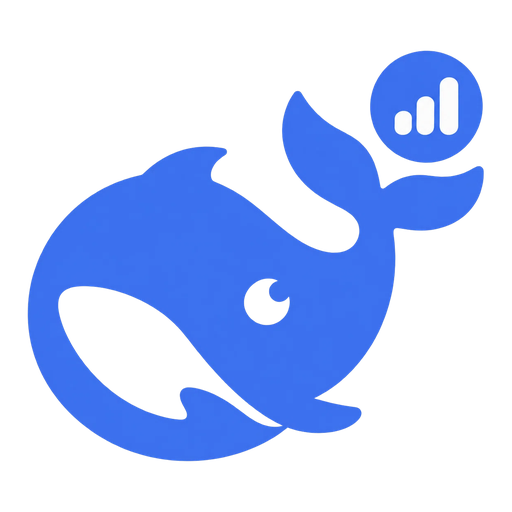
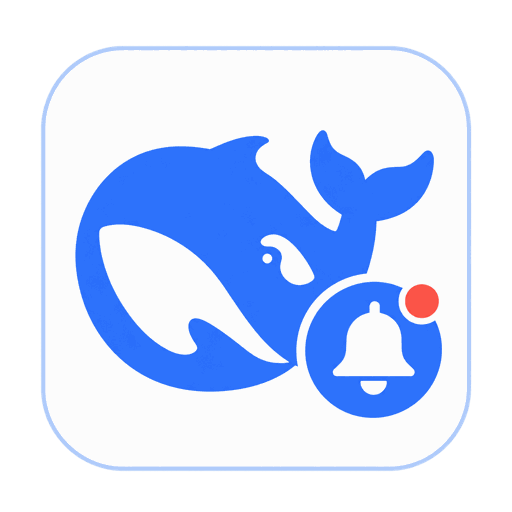
chore(release): 0.6.1
Adopt the whale + bell notification icon, remove the obsolete icon candidates, and add menu bar, settings, and plugin-inventory screenshots to both READMEs.

diff --git a/README.en.md b/README.en.md
@@ -8,7 +8,26 @@ English | [简体中文](https://github.com/linbin-mk/dsh-notify/blob/main/READM
 [![node](https://img.shields.io/node/v/@linbin-mk/dsh-notify)](package.json)
 [![platform](https://img.shields.io/badge/platform-macOS%2013%2B-lightgrey)](#requirements)
 
-`dsh-notify` is a pure third-party DeepSeek Harness bundle for macOS. It adds one status item to the system menu bar: the Harness whale mark followed by the number of live Agents whose authoritative status is `running`. When the count is zero, only the whale remains visible. While subscribed events await user action, the number becomes their total and the letters identify the event types: `Q` means a question and `S` means an approval, so `2-QS` means one of each. Both subscriptions and their sweeping attention effect default to on. Click the item to focus the open Google Chrome tab for this Harness process; it never opens a new tab. Its Web Client half contributes a Notifications page to the built-in Settings panel, where the indicator and event subscriptions can be managed without restarting Harness.
+`dsh-notify` is a pure third-party DeepSeek Harness plugin for macOS. It keeps one whale status item in the system menu bar: the mark is followed by the number of live Agents whose authoritative status is `running`, and when that number is zero only the whale remains. While subscribed events await user action, the number becomes their total and the letters identify the event types: `Q` means a question and `S` means an approval, so `2-QS` means one of each. Click the item to focus the open Google Chrome tab for this Harness process; it never opens a new tab. Its Web Client half contributes a Notifications page to the built-in Settings panel, where the indicator, both event subscriptions, and the sweeping attention effect can be managed without restarting Harness.
+
+## Screenshots
+
+**Menu bar status item** (drawn with the same AppKit logic the packaged helper uses):
+
+| State | Menu bar |
+| --- | --- |
+| Idle: no Agent running | <img src="https://raw.githubusercontent.com/linbin-mk/dsh-notify/main/docs/screenshots/menubar-idle.png" width="360" alt="Only the whale is visible when idle"> |
+| Running: 3 Agents | <img src="https://raw.githubusercontent.com/linbin-mk/dsh-notify/main/docs/screenshots/menubar-running.png" width="360" alt="The menu bar shows the whale and the number 3"> |
+| Pending: 1 question + 1 approval | <img src="https://raw.githubusercontent.com/linbin-mk/dsh-notify/main/docs/screenshots/menubar-pending.png" width="360" alt="The menu bar shows the whale and 2-QS"> |
+| Sweep: an event awaits action | <img src="https://raw.githubusercontent.com/linbin-mk/dsh-notify/main/docs/screenshots/menubar-sweep.gif" width="360" alt="A highlight sweeps over the whale and the numbers"> |
+
+**Settings → Notifications**: toggle the indicator, event subscriptions, and sweep live without restarting Harness.
+
+![The Notifications page in the Settings panel](https://raw.githubusercontent.com/linbin-mk/dsh-notify/main/docs/screenshots/settings-notify-en.png)
+
+**Settings → Plugins**: the inventory shows the icon, localized name, and capability description.
+
+![The menu bar activity indicator in the plugin inventory](https://raw.githubusercontent.com/linbin-mk/dsh-notify/main/docs/screenshots/plugin-row-en.png)
 
 ## Features
 
@@ -17,7 +36,7 @@ English | [简体中文](https://github.com/linbin-mk/dsh-notify/blob/main/READM
 - **Sweeping attention effect** — a highlight sweeps over the whale mark and the numbers while a subscribed event is pending. It is clipped to the icon and the glyphs instead of covering the whole status item.
 - **Click to focus** — clicking the item brings the Google Chrome tab already showing this Harness process to the front. It never opens a new tab.
 - **Settings without a restart** — the indicator, both subscriptions, and the sweep can be toggled live from the built-in Settings panel.
-- **Display metadata in the plugin lists** — the package ships `icon.png` (a whale with an activity-signal badge on a transparent background) plus `locale/en.json` and `locale/zh.json` with `meta.title`/`meta.description`. The Harness Plugin Manager, bundle details and the **Settings → Plugins** inventory read them **without activating the plugin**, so the row shows a localized name and capability description with its own icon instead of package-name fallback text and generic artwork.
+- **Display metadata in the plugin lists** — the package ships `icon.png` (a whale with a bell notification badge on a white rounded-square tile) plus `locale/en.json` and `locale/zh.json` with `meta.title`/`meta.description`. The Harness Plugin Manager, bundle details and the **Settings → Plugins** inventory read them **without activating the plugin**, so the row shows a localized name and capability description with its own icon instead of package-name fallback text and generic artwork.
 
 ## Requirements
 
@@ -41,7 +60,7 @@ To install a locally built tarball instead:
 ```sh
 npm test
 npm pack
-dsh plugin --profile web-notify add ./linbin-mk-dsh-notify-0.6.0.tgz
+dsh plugin --profile web-notify add ./linbin-mk-dsh-notify-0.6.1.tgz
 ```
 
 Either artifact already contains the universal native helper, so no Xcode installation is needed. Installing from a Git checkout does need Xcode Command Line Tools: pnpm runs the package's `prepare` script, which compiles that helper, and blocks it until the key it prints is allowlisted under `allowBuilds` in the profile's `pnpm-workspace.yaml`.
@@ -80,7 +99,7 @@ file native/dsh-notify-menubar
 The build compiles the AppKit helper for `arm64` and `x86_64`, then combines both slices into one universal executable. `npm test` covers two suites:
 
 - `test/plugin.test.js` — Agent counting, live enable/disable ownership, the Host half's volatile Config references and their `loader/volatile-update` follow-up, Web origin composition from the listener protocol and bind address (IPv6 bracketed) with an advertised root taking precedence, the Client bundle's reads and switch writes through `ctx.configForms`, the package-name ownership of its injected stylesheet, and an AppKit probe that loads the packaged whale SVG without creating a status item. The Settings page now keys editability on the configuration-form snapshot's `status` and `writable` alone: upstream removed `ConfigFormSnapshot.mode` in Harness `0.2.1-alpha.3`, so a `ready` and writable snapshot is editable and no longer has to report `mode === 'host'`.
-- `test/display-metadata.test.js` — checks the plugin-list display metadata by the same resolution rules as `readPluginMeta` (`dsh-app-boot`): `@linbin-mk/dsh-notify/locale/en.json` and its sibling `locale/zh.json` both resolve through the package's self-referencing `exports`, use language ids as filenames, and carry non-empty, mutually distinct Chinese and English `meta.title`/`meta.description`; `./icon` resolves to a square PNG image no larger than 256 KiB (`icon.png`: a whale with an activity-signal badge on a transparent background); and `package.json`'s `files` and `exports` both carry `icon.png` and `locale/*.json` while the `"."`, `"./client"`, and `"./cordis.patch.yml"` runtime exports stay unchanged. `readPluginMeta` goes through Node's ESM resolver without executing plugin code, so a missing export, a malformed dictionary, or a resource left out of the packed `files` only degrades the row to package-name text and generic artwork — there is no runtime error.
+- `test/display-metadata.test.js` — checks the plugin-list display metadata by the same resolution rules as `readPluginMeta` (`dsh-app-boot`): `@linbin-mk/dsh-notify/locale/en.json` and its sibling `locale/zh.json` both resolve through the package's self-referencing `exports`, use language ids as filenames, and carry non-empty, mutually distinct Chinese and English `meta.title`/`meta.description`; `./icon` resolves to a square PNG image no larger than 256 KiB (`icon.png`: a whale with a bell notification badge on a white rounded-square tile); and `package.json`'s `files` and `exports` both carry `icon.png` and `locale/*.json` while the `"."`, `"./client"`, and `"./cordis.patch.yml"` runtime exports stay unchanged. `readPluginMeta` goes through Node's ESM resolver without executing plugin code, so a missing export, a malformed dictionary, or a resource left out of the packed `files` only degrades the row to package-name text and generic artwork — there is no runtime error.
 
 ## Troubleshooting
 
@@ -104,4 +123,4 @@ Disabling the indicator closes and awaits the native helper; disabling a subscri
 
 MIT — see `LICENSE`.
 
-The whale outline in `native/whale.svg` is DeepSeek Harness's MIT-licensed `FishLogo` asset, reproduced unmodified; `NOTICE` carries the upstream copyright and license text. As a macOS template image it appears black in the light menu bar and automatically changes contrast in dark appearances. The plugin-list icon `icon.png` is original artwork made for this plugin (a whale with an activity-signal badge on a transparent background) and contains no third-party material; the MIT attribution in `NOTICE` covers only `native/whale.svg`.
+The whale outline in `native/whale.svg` is DeepSeek Harness's MIT-licensed `FishLogo` asset, reproduced unmodified; `NOTICE` carries the upstream copyright and license text. As a macOS template image it appears black in the light menu bar and automatically changes contrast in dark appearances. The plugin-list icon `icon.png` is original artwork made for this plugin (a whale with a bell notification badge on a white rounded-square tile); its whale motif follows DeepSeek's whale identity. The MIT attribution in `NOTICE` covers both `native/whale.svg` and the whale motif in the icon.

diff --git a/README.md b/README.md
@@ -8,7 +8,26 @@
 [![Node](https://img.shields.io/node/v/@linbin-mk/dsh-notify)](package.json)
 [![平台](https://img.shields.io/badge/platform-macOS%2013%2B-lightgrey)](#要求)
 
-`dsh-notify` 是一个适用于 macOS 的纯第三方 DeepSeek Harness 插件。它在系统菜单栏中添加一个状态项：Harness 鲸鱼标志及当前状态为 `running` 的 Agent 数量。计数为零时，菜单栏只显示鲸鱼。当已订阅事件等待用户处理时，数字改为这些事件的总数，字母用于标识事件类型：`Q` 表示提问，`S` 表示审批；因此 `2-QS` 表示各有一个提问和审批等待处理。两类订阅及扫光强化提示默认开启。点击状态项会切换到此 Harness 进程已打开的 Google Chrome 标签页，绝不会新建标签页。它的 Web Client 端会在内置设置面板中添加“通知”页面，用户无需重启 Harness 即可管理状态项及事件订阅。
+`dsh-notify` 是一个纯第三方的 DeepSeek Harness macOS 插件。它在系统菜单栏常驻一个鲸鱼状态项：鲸鱼后显示当前状态为 `running` 的 Agent 数量，计数为零时只显示鲸鱼。当已订阅的事件等待用户处理时，数字改为这些事件的总数，并用字母标识事件类型：`Q` 表示提问，`S` 表示审批，因此 `2-QS` 表示各有一个提问和审批等待处理。点击状态项会切换到此 Harness 进程已打开的 Google Chrome 标签页，绝不会新建标签页。Web Client 端还会在内置设置面板中加入“通知”页面，状态项、两类事件订阅和扫光提示都可以在不重启 Harness 的情况下管理。
+
+## 截图
+
+**菜单栏状态项**（与随包辅助程序相同的 AppKit 绘制逻辑）：
+
+| 场景 | 菜单栏显示 |
+| --- | --- |
+| 空闲：没有 Agent 运行 | <img src="https://raw.githubusercontent.com/linbin-mk/dsh-notify/main/docs/screenshots/menubar-idle.png" width="360" alt="空闲时菜单栏只显示鲸鱼"> |
+| 运行中：3 个 Agent | <img src="https://raw.githubusercontent.com/linbin-mk/dsh-notify/main/docs/screenshots/menubar-running.png" width="360" alt="菜单栏显示鲸鱼和数字 3"> |
+| 待处理：1 个提问 + 1 个审批 | <img src="https://raw.githubusercontent.com/linbin-mk/dsh-notify/main/docs/screenshots/menubar-pending.png" width="360" alt="菜单栏显示鲸鱼和 2-QS"> |
+| 扫光：有事件等待处理 | <img src="https://raw.githubusercontent.com/linbin-mk/dsh-notify/main/docs/screenshots/menubar-sweep.gif" width="360" alt="扫光掠过鲸鱼和数字"> |
+
+**设置 → 通知**：状态项、事件订阅和扫光都可以即时开关，无需重启 Harness。
+
+![设置面板中的通知页](https://raw.githubusercontent.com/linbin-mk/dsh-notify/main/docs/screenshots/settings-notify-zh.png)
+
+**设置 → 插件**：插件清单会直接显示图标、名称和能力说明。
+
+![插件清单中的菜单栏活动指示器](https://raw.githubusercontent.com/linbin-mk/dsh-notify/main/docs/screenshots/plugin-row-zh.png)
 
 ## 功能
 
@@ -17,7 +36,7 @@
 - **扫光强化提示** —— 有已订阅事件等待处理时，一道扫光会掠过鲸鱼图标和旁边的数字；高光只落在图标与字形上，不会铺满整个状态项。
 - **点击聚焦** —— 点击状态项会把已打开此 Harness 进程的 Google Chrome 标签页切到前台，绝不会新建标签页。
 - **免重启改设置** —— 状态项、两类订阅和扫光都可在内置设置面板中实时开关。
-- **插件清单里的展示信息** —— 包内自带 `icon.png`（鲸鱼 + 活动状态徽标，透明背景）与 `locale/en.json`、`locale/zh.json` 两份 `meta.title`/`meta.description`。Harness 的插件管理器、bundle 详情与**设置 → 插件**清单在**不激活插件**的前提下读取它们，因此插件行显示的是带图标的中英文名称与能力说明，而不是包名回退文本和默认占位图。
+- **插件清单里的展示信息** —— 包内自带 `icon.png`（白底圆角方块上的鲸鱼与铃铛通知徽标）与 `locale/en.json`、`locale/zh.json` 两份 `meta.title`/`meta.description`。Harness 的插件管理器、bundle 详情与**设置 → 插件**清单在**不激活插件**的前提下读取它们，因此插件行显示的是带图标的中英文名称与能力说明，而不是包名回退文本和默认占位图。
 
 ## 要求
 
@@ -41,7 +60,7 @@ dsh --profile web-notify
 ```sh
 npm test
 npm pack
-dsh plugin --profile web-notify add ./linbin-mk-dsh-notify-0.6.0.tgz
+dsh plugin --profile web-notify add ./linbin-mk-dsh-notify-0.6.1.tgz
 ```
 
 两种产物都已包含通用原生辅助程序，无需安装 Xcode。如果改为从 Git 检出安装，则需要 Xcode Command Line Tools：pnpm 会运行包的 `prepare` 脚本编译该辅助程序并阻止执行，直到你把 pnpm 打印的那个键加入 profile 的 `pnpm-workspace.yaml` 的 `allowBuilds`。
@@ -80,7 +99,7 @@ file native/dsh-notify-menubar
 构建过程会分别为 `arm64` 和 `x86_64` 编译 AppKit 辅助程序，再将两个架构合并为一个通用可执行文件。`npm test` 覆盖两部分：
 
 - `test/plugin.test.js` —— Agent 计数、运行期间的启用和停用行为、Host 半侧实时配置引用与 `loader/volatile-update` 的联动、Web 源按监听协议与绑定地址组装（IPv6 加方括号）并以广告地址优先、Client 插件经 `ctx.configForms` 读取配置并写回开关、注入样式表的包名归属，以及加载随包提供的鲸鱼 SVG 且不创建状态项的 AppKit 探测。设置页的可编辑性现在只看配置表单快照的 `status` 与 `writable`：上游在 Harness `0.2.1-alpha.3` 移除了 `ConfigFormSnapshot.mode`，快照为 `ready` 且可写即视为可编辑，不再要求 `mode === 'host'`。
-- `test/display-metadata.test.js` —— 按 `readPluginMeta`（`dsh-app-boot`）的同一套解析规则校验插件清单展示信息：`@linbin-mk/dsh-notify/locale/en.json` 与同目录的 `locale/zh.json` 都能经包自引用 `exports` 解析、文件名是语言 id、`meta.title`/`meta.description` 非空且中英文不同；`./icon` 解析到不超过 256 KiB 的方形 PNG 图标（`icon.png`：鲸鱼 + 活动状态徽标，透明背景）；`package.json` 的 `files` 与 `exports` 同时携带 `icon.png` 与 `locale/*.json`，而 `"."`、`"./client"`、`"./cordis.patch.yml"` 三个运行时导出保持不变。`readPluginMeta` 走 Node 的 ESM 解析器且不执行插件代码，所以缺少导出、字典格式错误或资源没被 `files` 带进 tarball 时，插件行只会静默退化为包名文本和默认占位图，不会在运行时报错。
+- `test/display-metadata.test.js` —— 按 `readPluginMeta`（`dsh-app-boot`）的同一套解析规则校验插件清单展示信息：`@linbin-mk/dsh-notify/locale/en.json` 与同目录的 `locale/zh.json` 都能经包自引用 `exports` 解析、文件名是语言 id、`meta.title`/`meta.description` 非空且中英文不同；`./icon` 解析到不超过 256 KiB 的方形 PNG 图标（`icon.png`：白底圆角方块上的鲸鱼与铃铛通知徽标）；`package.json` 的 `files` 与 `exports` 同时携带 `icon.png` 与 `locale/*.json`，而 `"."`、`"./client"`、`"./cordis.patch.yml"` 三个运行时导出保持不变。`readPluginMeta` 走 Node 的 ESM 解析器且不执行插件代码，所以缺少导出、字典格式错误或资源没被 `files` 带进 tarball 时，插件行只会静默退化为包名文本和默认占位图，不会在运行时报错。
 
 ## 常见问题
 
@@ -104,4 +123,4 @@ file native/dsh-notify-menubar
 
 MIT —— 详见 `LICENSE`。
 
-`native/whale.svg` 中的鲸鱼轮廓复制自采用 MIT 许可证的 DeepSeek Harness `FishLogo` 资源，未作修改；上游版权与许可证文本见 `NOTICE`。它作为 macOS 模板图像时，在浅色菜单栏中显示为黑色，并在深色外观下自动调整对比度。插件清单图标 `icon.png` 是本插件专用的原创图形（鲸鱼 + 活动状态徽标，透明背景），不包含第三方素材；`NOTICE` 中的 MIT 归属只覆盖 `native/whale.svg`。
+`native/whale.svg` 中的鲸鱼轮廓复制自采用 MIT 许可证的 DeepSeek Harness `FishLogo` 资源，未作修改；上游版权与许可证文本见 `NOTICE`。它作为 macOS 模板图像时，在浅色菜单栏中显示为黑色，并在深色外观下自动调整对比度。插件清单图标 `icon.png` 是本插件专用的原创图形（白底圆角方块上的鲸鱼与铃铛通知徽标），其中的鲸鱼形象取自 DeepSeek 鲸鱼标识；`NOTICE` 中的 MIT 归属覆盖 `native/whale.svg` 与图标中的鲸鱼形象。
